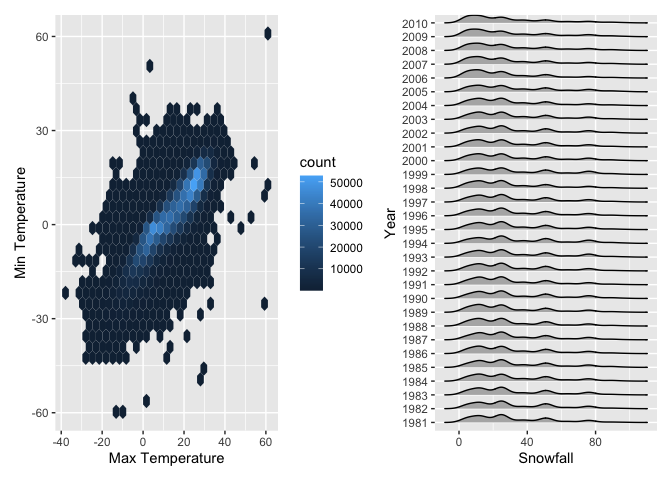
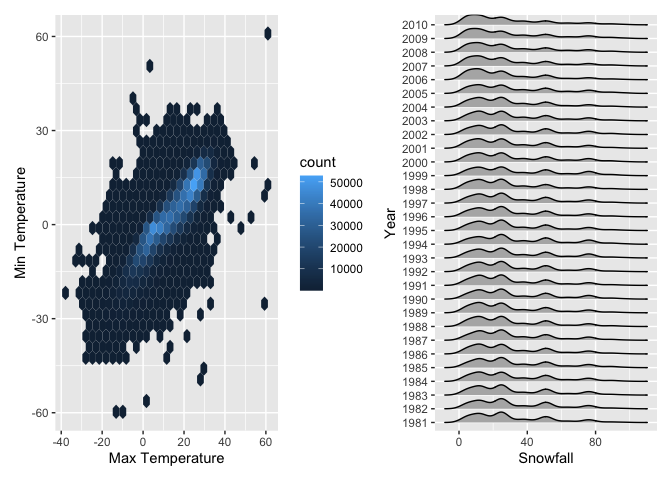
Revise codes and lines for Problem 1 and 3. Adjust the plots in Problem 3.

Changed region(s): [[0.5938, 0.0312, 0.9688, 0.9062]]

diff --git a/p8105_hw3_sc5154.md b/p8105_hw3_sc5154.md
@@ -138,13 +138,7 @@ ins_df %>%
   ggplot(aes(x = reorder(aisle, -n_obs), y = n_obs)) +
     geom_col() +
     scale_x_discrete(guide = guide_axis(angle = 45)) +
-    geom_text(
-      aes(label = n_obs), 
-      position = position_dodge(width = 0.9), 
-      size = 1.0,
-      cvjust = -0.25) + 
     labs(x = "Aisle", y = "Number of Items") 
-## Warning: Ignoring unknown parameters: cvjust
 ```
 
 ![](p8105_hw3_sc5154_files/figure-gfm/unnamed-chunk-7-1.png)<!-- -->
@@ -332,6 +326,7 @@ noaa_df =
   janitor::clean_names() %>%
   separate(date, c("year", "month", "day"), sep = "-", convert = TRUE) %>%
   mutate(
+    month = month.name[as.integer(month)],
     prcp = prcp / 10,
     tmax = as.numeric(tmax) / 10, 
     tmin = as.numeric(tmin) / 10
@@ -366,17 +361,17 @@ observable / interpretable structure? Any outliers?
 
 ``` r
 noaa_df %>%
-  filter(month == 1 | month == 7) %>%
-  group_by(year, month, id) %>%
-  mutate(month = factor(month, levels = c(1, 7))) %>%
+  filter(month == 'January' | month == 'July') %>%
+  group_by(month, id, year) %>%
   summarize(mean_tmax = mean(tmax, na.rm = TRUE)) %>%
-  drop_na(mean_tmax) %>%
-  ggplot(aes(x = year, y = mean_tmax, color = month)) +
-  geom_point(alpha = 0.5) +
-  geom_smooth(se = FALSE) +
-  theme(legend.position = "bottom") + 
-  labs(x = 'Year', y = "Mean Max Temperature", color = "Month") + 
+  ggplot(aes(x = year, y = mean_tmax, color = id)) +
+  geom_point(size = 0.2, alpha = 0.5) +
+  geom_path(alpha = 0.5) +
+  theme(legend.position = "none") + 
+  labs(x = 'Year', y = "Mean Max Temperature") +
   facet_grid(. ~ month)
+## Warning: Removed 5970 rows containing missing values (geom_point).
+## Warning: Removed 5640 row(s) containing missing values (geom_path).
 ```
 
 ![](p8105_hw3_sc5154_files/figure-gfm/unnamed-chunk-16-1.png)<!-- -->
@@ -411,7 +406,7 @@ snowfall_dis =
   filter(snow > 0 & snow < 100) %>%
   mutate(year = factor(year)) %>%
   ggplot(aes(x = snow, y = year)) + 
-  geom_density_ridges(scale = 0.6) +
+  geom_density_ridges(scale = 0.8) +
   labs(x = 'Snowfall', y = "Year")
 
 tmax_vs_tmin + snowfall_dis
